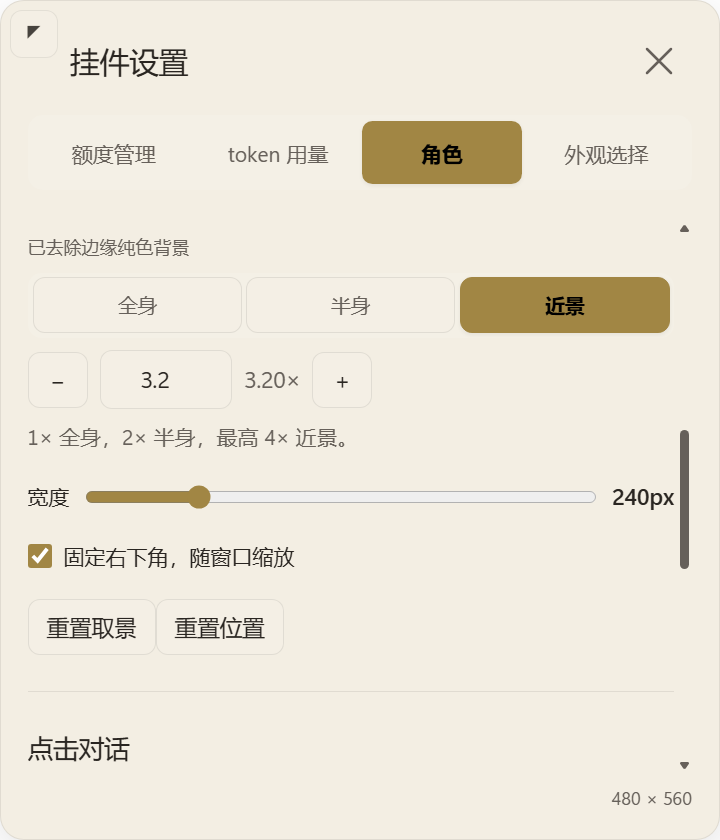
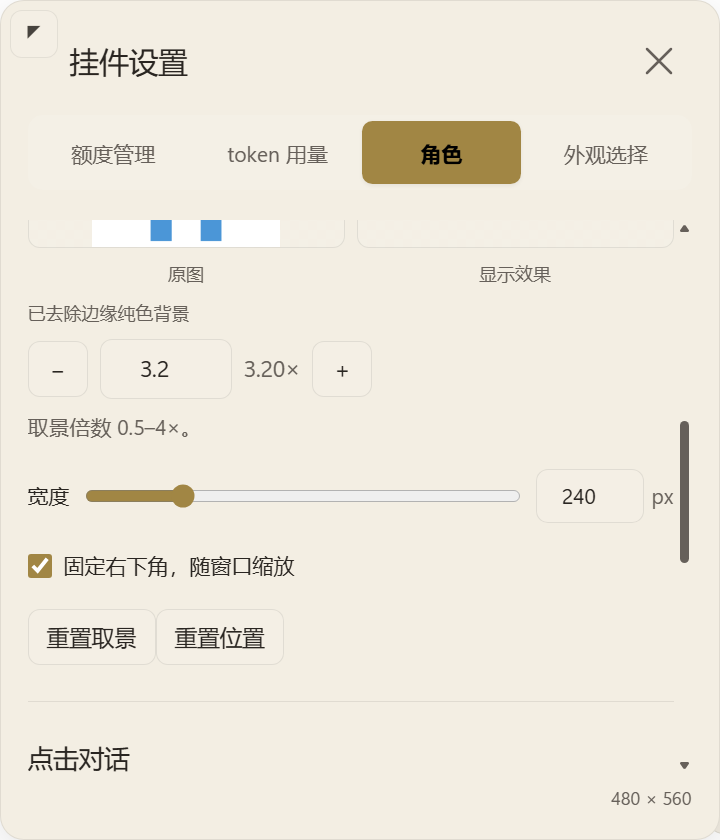
稳定立绘调节时的设置卡片并支持尺寸数字输入

diff --git a/desktop/ui/index.html b/desktop/ui/index.html
@@ -15,7 +15,7 @@
   <details id="token-exact" class="data-notes"><summary data-i18n="精确数值">精确数值</summary><dl id="token-exact-values"></dl></details></article>
   <p id="token-status" role="status">索引中</p><p id="token-updated"></p><footer id="token-statement"><span data-i18n="仅本机现存会话 · 非账户官方统计">仅本机现存会话 · 非账户官方统计</span><details class="data-notes"><summary data-i18n="统计口径">统计口径</summary><p id="token-coverage">索引中</p><p data-i18n="按本机时间展示最近 24 个小时、7 个日期或 30 个日期。总数等于当前柱形之和，不含已删除会话或其他电脑。">按本机时间展示最近 24 个小时、7 个日期或 30 个日期。总数等于当前柱形之和，不含已删除会话或其他电脑。</p></details></footer>
 </div>
-<div id="character-panel" role="tabpanel" aria-labelledby="character-tab" hidden><div class="section-heading"><h2 data-i18n="立绘设置">立绘设置</h2><p data-i18n="上传一张图片，调整角色的大小与取景">上传一张图片，调整角色的大小与取景</p></div><div class="settings-group"><div class="character-manager"><div id="character-list"></div><div class="character-actions"><button id="character-rename" tabindex="-1" data-i18n="更名">更名</button><button id="character-delete" tabindex="-1" data-i18n="删除">删除</button></div></div><button id="character-upload" class="upload-character" tabindex="-1" data-i18n="上传立绘">上传立绘</button><label class="character-option"><span data-i18n="大小">大小</span> <input id="character-size" type="range" min="180" max="420" step="1" tabindex="-1"><output id="character-size-value">280px</output></label><label class="character-option"><input id="character-background" type="checkbox" tabindex="-1" checked><span data-i18n="自动去背景">自动去背景</span></label><div class="character-previews"><figure><img id="character-original" alt="原图预览"><figcaption data-i18n="原图">原图</figcaption></figure><figure><canvas id="character-processed" width="240" height="180"></canvas><figcaption data-i18n="显示效果">显示效果</figcaption></figure></div><p id="character-processing" role="status"></p><div class="segmented" id="character-framing"><button data-framing="1" aria-pressed="true" data-i18n="全身">全身</button><button data-framing="2" aria-pressed="false" data-i18n="半身">半身</button><button data-framing="3" aria-pressed="false" data-i18n="近景">近景</button></div><label class="framing-adjust"><button id="character-zoom-minus" type="button" aria-label="缩小取景" data-i18n-aria-label="缩小取景">−</button><input id="character-zoom" type="number" min="0.5" max="4" step="0.05" aria-label="取景缩放" data-i18n-aria-label="取景缩放"><span id="character-zoom-value">1×</span><button id="character-zoom-plus" type="button" aria-label="放大取景" data-i18n-aria-label="放大取景">+</button></label><p class="character-help" data-i18n="1× 全身，2× 半身，最高 4× 近景。">1× 全身，2× 半身，最高 4× 近景。</p><label class="character-option"><span data-i18n="宽度">宽度</span><input id="character-width" type="range" min="126" max="672" step="1"><output id="character-width-value">自动</output></label><label class="character-option"><input id="resident-dock" type="checkbox" checked><span data-i18n="固定右下角，随窗口缩放">固定右下角，随窗口缩放</span></label><button id="character-reset" tabindex="-1" data-i18n="重置取景">重置取景</button><button id="position-reset" tabindex="-1" data-i18n="重置位置">重置位置</button><p id="character-error" role="alert"></p></div><fieldset class="dialogue-settings"><legend data-i18n="点击对话">点击对话</legend><label><span data-i18n="第一段对话">第一段对话</span><textarea id="dialogue-first" maxlength="240" rows="3"></textarea></label><label><span data-i18n="第二段对话">第二段对话</span><textarea id="dialogue-second" maxlength="240" rows="3"></textarea></label><div class="dialogue-actions"><button id="dialogue-save" data-i18n="保存对话">保存对话</button><button id="dialogue-cancel" data-i18n="取消编辑">取消编辑</button></div><p id="dialogue-message" role="status"></p></fieldset><footer id="character-notice" data-i18n="请上传你有权使用的图片。素材保存在本机，不会上传。">请上传你有权使用的图片。素材保存在本机，不会上传。</footer></div>
+<div id="character-panel" role="tabpanel" aria-labelledby="character-tab" hidden><div class="section-heading"><h2 data-i18n="立绘设置">立绘设置</h2><p data-i18n="上传一张图片，调整角色的大小与取景">上传一张图片，调整角色的大小与取景</p></div><div class="settings-group"><div class="character-manager"><div id="character-list"></div><div class="character-actions"><button id="character-rename" tabindex="-1" data-i18n="更名">更名</button><button id="character-delete" tabindex="-1" data-i18n="删除">删除</button></div></div><button id="character-upload" class="upload-character" tabindex="-1" data-i18n="上传立绘">上传立绘</button><label class="character-option"><span data-i18n="大小">大小</span> <input id="character-size" type="range" min="180" max="420" step="1" tabindex="-1"><span class="dimension-value"><input id="character-size-value" type="number" min="180" max="420" step="1" value="280" aria-label="大小" data-i18n-aria-label="大小"><span>px</span></span></label><label class="character-option"><input id="character-background" type="checkbox" tabindex="-1" checked><span data-i18n="自动去背景">自动去背景</span></label><div class="character-previews"><figure><img id="character-original" alt="原图预览"><figcaption data-i18n="原图">原图</figcaption></figure><figure><canvas id="character-processed" width="240" height="180"></canvas><figcaption data-i18n="显示效果">显示效果</figcaption></figure></div><p id="character-processing" role="status"></p><label class="framing-adjust"><button id="character-zoom-minus" type="button" aria-label="缩小取景" data-i18n-aria-label="缩小取景">−</button><input id="character-zoom" type="number" min="0.5" max="4" step="0.05" aria-label="取景缩放" data-i18n-aria-label="取景缩放"><span id="character-zoom-value">1×</span><button id="character-zoom-plus" type="button" aria-label="放大取景" data-i18n-aria-label="放大取景">+</button></label><p class="character-help" data-i18n="取景倍数 0.5–4×。">取景倍数 0.5–4×。</p><label class="character-option"><span data-i18n="宽度">宽度</span><input id="character-width" type="range" min="126" max="672" step="1"><span class="dimension-value"><input id="character-width-value" type="number" min="126" max="672" step="1" value="199" aria-label="宽度" data-i18n-aria-label="宽度"><span>px</span></span></label><label class="character-option"><input id="resident-dock" type="checkbox" checked><span data-i18n="固定右下角，随窗口缩放">固定右下角，随窗口缩放</span></label><button id="character-reset" tabindex="-1" data-i18n="重置取景">重置取景</button><button id="position-reset" tabindex="-1" data-i18n="重置位置">重置位置</button><p id="character-error" role="alert"></p></div><fieldset class="dialogue-settings"><legend data-i18n="点击对话">点击对话</legend><label><span data-i18n="第一段对话">第一段对话</span><textarea id="dialogue-first" maxlength="240" rows="3"></textarea></label><label><span data-i18n="第二段对话">第二段对话</span><textarea id="dialogue-second" maxlength="240" rows="3"></textarea></label><div class="dialogue-actions"><button id="dialogue-save" data-i18n="保存对话">保存对话</button><button id="dialogue-cancel" data-i18n="取消编辑">取消编辑</button></div><p id="dialogue-message" role="status"></p></fieldset><footer id="character-notice" data-i18n="请上传你有权使用的图片。素材保存在本机，不会上传。">请上传你有权使用的图片。素材保存在本机，不会上传。</footer></div>
 <div id="appearance-panel" role="tabpanel" aria-labelledby="appearance-tab" hidden>
 <h2 class="appearance-heading" data-i18n="主题色">主题色</h2><p class="appearance-intro" data-i18n="选择一套双配色，卡片与进度条一起变化。">选择一套双配色，卡片与进度条一起变化。</p><div id="palette-presets" class="palette-options" aria-label="卡片主题配色" data-i18n-aria-label="卡片主题配色"></div><button id="custom-palette" class="custom-palette-choice" type="button" aria-pressed="false"><span data-i18n="自定义配色">自定义配色</span><span class="custom-palette-swatches" aria-hidden="true"><i id="custom-base-swatch"></i><i id="custom-accent-swatch"></i></span></button>
 <div id="custom-palette-editor" class="custom-palette-editor" hidden><div class="custom-color-row"><span data-i18n="卡片底色">卡片底色</span><button id="custom-base-color" class="color-swatch" type="button" aria-label="卡片底色" data-i18n-aria-label="卡片底色"></button><input id="custom-base-hex" maxlength="7" value="#e9e5df" aria-label="底色色值" data-i18n-aria-label="底色色值" spellcheck="false"></div><div class="custom-color-row"><span data-i18n="强调色">强调色</span><button id="custom-accent-color" class="color-swatch" type="button" aria-label="强调色" data-i18n-aria-label="强调色"></button><input id="custom-accent-hex" maxlength="7" value="#786c60" aria-label="强调色色值" data-i18n-aria-label="强调色色值" spellcheck="false"></div><div id="custom-color-picker" class="inline-color-picker" hidden><span id="custom-color-title"></span><canvas id="custom-color-plane" width="256" height="160" aria-hidden="true"></canvas><label class="custom-hue-label"><span data-i18n="色相">色相</span><input id="custom-color-hue" type="range" min="0" max="360" step="1" value="0" aria-label="色相" data-i18n-aria-label="色相"></label></div><p class="character-help" data-i18n="选择颜色或填写色值，自动保存。">选择颜色或填写色值，自动保存。</p></div><p id="appearance-adjustment" class="appearance-note" role="status"></p><p id="appearance-error" role="alert"></p>

diff --git a/desktop/ui/character-settings.js b/desktop/ui/character-settings.js
@@ -2,12 +2,13 @@
   const $=id=>document.getElementById(id);
   let snapshot={active:null,characters:[]},timer,panStart,content=null,lastSize='',reportedWidth=199;
   const active=()=>snapshot.characters.find(c=>c.name===snapshot.active),error=text=>{$('character-error').dataset.i18n=text;$('character-error').textContent=window.uiText.t(text);};
+  function displayNumber(id,value){if(document.activeElement!==$(id))$(id).value=value;}
   function reportSize(view){
     const dimensions=content?.key===view.url+'|'+view.settings.background?content:{contentWidth:199,contentHeight:280};
     const framing=window.portraitGeometry.portraitContentSize(dimensions.contentWidth,dimensions.contentHeight,view.settings.zoom);
     const value={contentWidth:framing.width,contentHeight:framing.height,targetHeight:view.settings.targetHeight??280,zoom:view.settings.zoom??1,...(view.settings.targetWidth===undefined?{}:{targetWidth:view.settings.targetWidth})},key=JSON.stringify(value);
     reportedWidth=value.targetWidth??window.portraitGeometry.portraitSize(value.contentWidth,value.contentHeight,value.targetHeight,value.zoom>1).width;
-    $('character-width').value=reportedWidth;$('character-width-value').textContent=reportedWidth+'px';
+    $('character-width').value=reportedWidth;displayNumber('character-width-value',reportedWidth);
     if(key!==lastSize){lastSize=key;window.widget.characterSize(value);}
   }
   const live=new LocalImagePlayer($('character-canvas'),()=>{},value=>{content=value;reportSize(characterView.characterView(active()));}),preview=new LocalImagePlayer($('character-processed'),(text,bad)=>{$('character-processing').dataset.i18n=text;$('character-processing').textContent=window.uiText.t(text);if(bad)error(text);});
@@ -18,22 +19,25 @@
   function render(){
     const role=active(),list=$('character-list');list.replaceChildren();if(!role){const hint=document.createElement('span');hint.textContent=window.uiText.t('上传立绘，即可添加角色');list.append(hint);}
     for(const c of snapshot.characters){const button=document.createElement('button');button.textContent=c.name;button.tabIndex=-1;button.setAttribute('aria-pressed',String(c.name===snapshot.active));button.onclick=()=>{flush();action({action:'select',name:c.name});};list.append(button);}
-    for(const id of ['character-rename','character-delete','character-background','character-zoom','character-zoom-minus','character-zoom-plus','character-width','character-size','character-reset'])$(id).disabled=!role;
-    for(const button of document.querySelectorAll('[data-framing]'))button.disabled=!role;
+    for(const id of ['character-rename','character-delete','character-background','character-zoom','character-zoom-minus','character-zoom-plus','character-width','character-width-value','character-size','character-size-value','character-reset'])$(id).disabled=!role;
     const zoom=role?.settings.zoom||1;
-    $('character-background').checked=role?.settings.background??true;$('character-zoom').value=zoom;$('character-zoom-value').textContent=zoom.toFixed(2)+'×';$('character-size').value=role?.settings.targetHeight??280;$('character-size-value').textContent=(role?.settings.targetHeight??280)+'px';paintFraming();renderPreview();window.renderCharacter();
+    $('character-background').checked=role?.settings.background??true;$('character-zoom').value=zoom;$('character-zoom-value').textContent=zoom.toFixed(2)+'×';$('character-size').value=role?.settings.targetHeight??280;displayNumber('character-size-value',role?.settings.targetHeight??280);renderPreview();window.renderCharacter();
   }
   function flush(){clearTimeout(timer);const role=active();if(role)action({action:'settings',name:role.name,patch:role.settings});}
-  function paintFraming(){const zoom=active()?.settings.zoom||1,mode=zoom<=1?'1':zoom<=2?'2':'3';for(const button of document.querySelectorAll('[data-framing]'))button.setAttribute('aria-pressed',String(button.dataset.framing===mode));}
-  function changed(patch){const role=active();if(!role)return;if(patch.zoom!==undefined&&role.settings.targetWidth===undefined)patch.targetWidth=reportedWidth;Object.assign(role.settings,patch);$('character-zoom').value=role.settings.zoom;$('character-zoom-value').textContent=role.settings.zoom.toFixed(2)+'×';$('character-size-value').textContent=(role.settings.targetHeight??280)+'px';paintFraming();renderPreview();window.renderCharacter();clearTimeout(timer);timer=setTimeout(flush,150);}
+  function changed(patch){const role=active();if(!role)return;if(patch.zoom!==undefined&&role.settings.targetWidth===undefined)patch.targetWidth=reportedWidth;Object.assign(role.settings,patch);$('character-zoom').value=role.settings.zoom;$('character-zoom-value').textContent=role.settings.zoom.toFixed(2)+'×';$('character-size').value=role.settings.targetHeight??280;displayNumber('character-size-value',role.settings.targetHeight??280);renderPreview();window.renderCharacter();clearTimeout(timer);timer=setTimeout(flush,150);}
   window.widget.characters(value=>{snapshot=value;render();});
   $('character-rename').onclick=()=>active()&&action({action:'rename',name:active().name});$('character-delete').onclick=()=>active()&&action({action:'delete',name:active().name});
   $('character-upload').onclick=()=>{flush();action({action:'import'});};
   $('character-background').onchange=()=>changed({background:$('character-background').checked});$('character-zoom').oninput=()=>{const zoom=Number($('character-zoom').value);if(Number.isFinite(zoom)&&zoom>=.5&&zoom<=4)changed({zoom});};$('character-zoom').onchange=()=>{$('character-zoom').value=active()?.settings.zoom||1;flush();};
-  for(const button of document.querySelectorAll('[data-framing]'))button.onclick=()=>{changed({zoom:Number(button.dataset.framing)});flush();};
   for(const [id,step]of [['character-zoom-minus',-.1],['character-zoom-plus',.1]])$(id).onclick=()=>{changed({zoom:Math.max(.5,Math.min(4,Math.round(((active()?.settings.zoom||1)+step)*100)/100))});flush();};
   $('character-width').oninput=()=>changed({targetWidth:Number($('character-width').value)});$('character-width').onchange=flush;
   $('character-size').oninput=()=>changed({targetHeight:Number($('character-size').value)});$('character-size').onchange=flush;
+  for(const [id,key,min,max]of [['character-width-value','targetWidth',126,672],['character-size-value','targetHeight',180,420]]){
+    const field=$(id),current=()=>key==='targetWidth'?reportedWidth:active()?.settings.targetHeight??280;
+    field.oninput=()=>{const value=field.valueAsNumber;if(Number.isInteger(value)&&value>=min&&value<=max)changed({[key]:value});};
+    field.onchange=()=>{field.value=current();flush();};
+    field.onblur=()=>{field.value=current();};
+  }
   $('character-reset').onclick=()=>{changed({zoom:1,x:0,y:0});$('character-zoom').value=1;flush();};
   const canvas=$('character-processed');canvas.onpointerdown=event=>{const role=active();if(!role||event.button!==0)return;event.preventDefault();canvas.setPointerCapture(event.pointerId);panStart={clientX:event.clientX,clientY:event.clientY,x:role.settings.x,y:role.settings.y};};
   canvas.onpointermove=event=>{if(!panStart)return;const r=canvas.getBoundingClientRect();changed({x:Math.max(-1,Math.min(1,panStart.x+2*(event.clientX-panStart.clientX)/r.width)),y:Math.max(-1,Math.min(1,panStart.y+2*(event.clientY-panStart.clientY)/r.height))});};

diff --git a/desktop/ui/style.css b/desktop/ui/style.css
@@ -64,7 +64,6 @@ article>strong{font-size:15px;font-weight:500;line-height:20px}
 #character-panel button:hover{background:var(--bg-hover)}
 #character-panel button:active,#close:active{transform:scale(.97)}
 #character-panel button[aria-pressed="true"]{color:var(--accent-ink);background:var(--accent-soft);border-color:var(--accent)}
-#character-panel #character-framing button[aria-pressed="true"],#character-panel #character-framing button[aria-pressed="true"]:hover{background:var(--accent);color:var(--accent-contrast);border-color:var(--accent);font-weight:600}
 #character-upload{width:100%;color:var(--accent-contrast);background:var(--accent)!important;border-color:var(--accent)!important;font-weight:500}
 #character-upload:hover{background:var(--accent-hover)!important}
 #character-list{display:flex;flex-wrap:wrap;gap:var(--space-2)}
@@ -191,3 +190,6 @@ article{padding:18px;margin-bottom:14px}.card-row{margin:12px 0 14px;align-items
 #close svg{position:relative;width:24px;height:24px;fill:none;stroke:currentColor;stroke-width:1.65;stroke-linecap:round;pointer-events:none}
 #close{color:var(--text-secondary)}#close:hover{background:var(--clear);color:var(--text-primary)}#close:hover::before{background:var(--bg-hover)}
 @container(max-width:340px){.character-manager{flex-wrap:wrap}.character-manager .character-actions{margin-left:auto}}
+
+.dimension-value{display:inline-flex;align-items:center;gap:5px;flex:none;color:var(--text-secondary)}
+.dimension-value input{box-sizing:border-box;width:72px;min-height:36px;padding:6px 8px;border:1px solid var(--border-subtle);border-radius:var(--radius-control);background:var(--bg-elevated);color:var(--text-primary);font:inherit;text-align:center;user-select:text}

diff --git a/desktop/ui/i18n.js b/desktop/ui/i18n.js
@@ -1,7 +1,7 @@
 (function(root,factory){const api=factory();if(typeof module==='object')module.exports=api;else root.uiText=api;})(globalThis,()=>{
   let language='zh-CN';
   const en={
-    '1× 全身，2× 半身，最高 4× 近景。':'1× full body, 2× half body, up to 4× close-up.',
+    '取景倍数 0.5–4×。':'Framing zoom: 0.5–4×.',
     '1× 全身，2× 上半身；头顶与左右完整保留。':'1× full body, 2× upper body. Head and sides stay complete.',
     '雾蓝 × 群青':'Mist blue × Ultramarine','燕麦 × 暖金':'Oat × Warm gold','玫瑰白 × 酒红':'Rose white × Burgundy','雾绿 × 蓝绿':'Mist green × Teal','米白 × 深棕':'Ivory × Dark brown','灰蓝 × 深蓝':'Grey blue × Deep blue','杏白 × 暖红':'Apricot white × Warm red',
     '克莱茵蓝':'Klein Blue','群青 × 雾白':'Ultramarine × Mist white','申布伦黄':'Schönbrunn Yellow','暖黄 × 深棕':'Warm yellow × Dark brown','勃艮第红':'Burgundy','酒红 × 玫瑰白':'Burgundy × Rose white','马尔斯绿':'Marrs Green','蓝绿 × 墨绿':'Teal × Deep green','凡戴克棕':'Van Dyke Brown','深棕 × 香槟':'Dark brown × Champagne','普鲁士蓝':'Prussian Blue','深蓝 × 银白':'Deep blue × Silver white','提香红':'Titian Red','暖红 × 深红':'Warm red × Deep red',

diff --git a/desktop/ui/dialogue-settings.js b/desktop/ui/dialogue-settings.js
@@ -1,6 +1,6 @@
 (()=>{
   const fields=['dialogue-first','dialogue-second'].map(id=>document.getElementById(id)),[first,second]=fields;
-  const editableFields=[...fields,...['custom-base-hex','custom-accent-hex','character-zoom'].map(id=>document.getElementById(id))];
+  const editableFields=[...fields,...['custom-base-hex','custom-accent-hex','character-zoom','character-width-value','character-size-value'].map(id=>document.getElementById(id))];
   const message=document.getElementById('dialogue-message'),save=document.getElementById('dialogue-save');
   let saved=null,editing=false;
   const editableLine=line=>line.replace(/\{称呼\}/g,()=>saved?.address||'主人');
